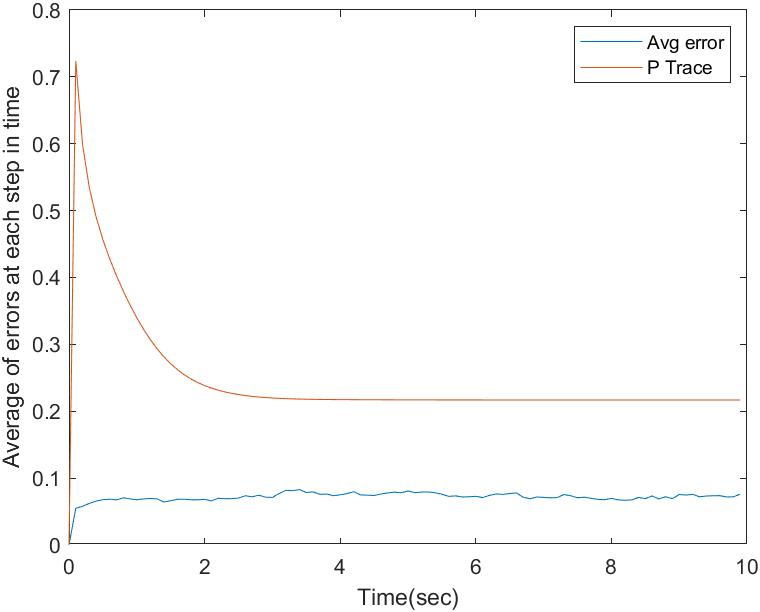
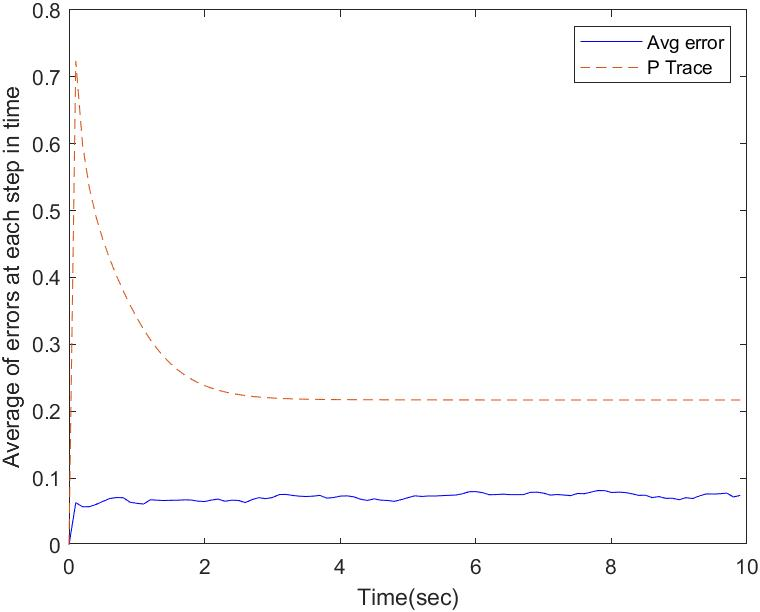
changed plot a bit

diff --git a/AERSP497Proj1.m b/AERSP497Proj1.m
@@ -74,7 +74,7 @@ end
 t=0:dT:10-dT;
 
 h0 = figure ;
-plot(t,mean(e_norm(:,:)),t,mean(P_trace(:,:)));
+plot(t,mean(e_norm(:,:)),'b',t,mean(P_trace(:,:)),'--');
 xlabel('Time(sec)');
 ylabel('Average of errors at each step in time');
 legend('Avg error','P Trace');
